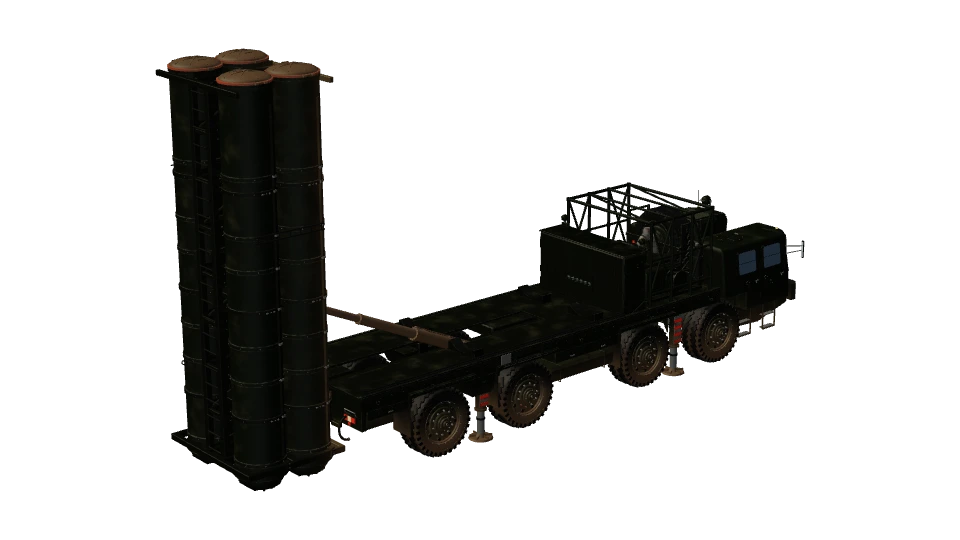
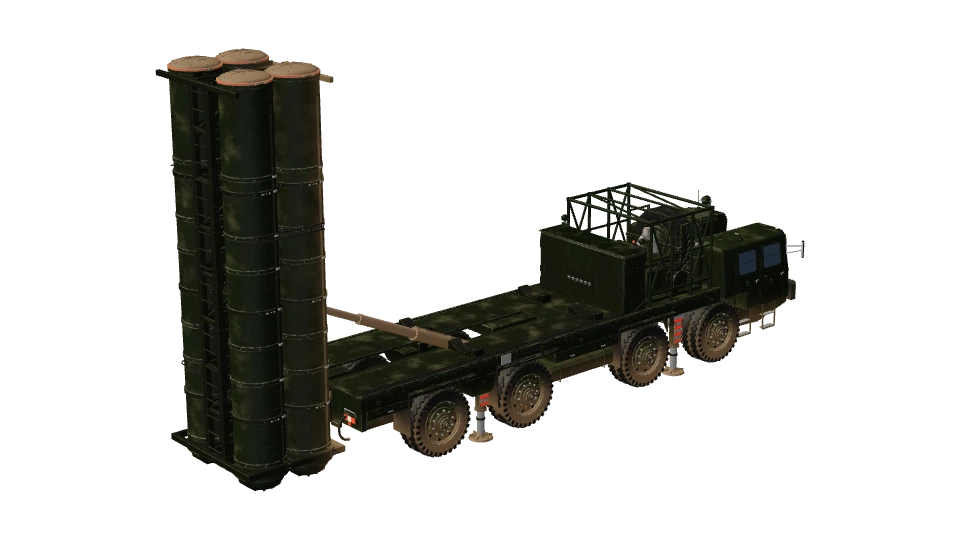
Воздушное превосходство: у С-300 стёкла кабин и фар с бликом, как у С-400; С-400 в игре не такая чёрная (яркость ×2 — как на одобренном превью)

diff --git a/fortuna-bot-web/tools/airdef-models/prepare.js b/fortuna-bot-web/tools/airdef-models/prepare.js
@@ -345,7 +345,8 @@ const CONFIG = {
   // jack_0…3 → jack0…3 — штоки домкратов; cyl_barrel / cyl_rod1 / cyl_rod2 → cyl0…2 — гидроцилиндр подъёма (main.js erectView). Контейнеры полые:
   // ракеты 9М83 — своя модель msl_9m83. Дальняя копия — s300_lo.glb сборщика (без протектора, ступиц, рамы: 61 тыс.), крышки в пакете
   s300: { src: `${DL}/Свои/С-300/s300.glb`, scale: 1, nose: '-z', rulesIn: 'game', unit: true, own: true, tex: () => 2048, nTex: () => 1024, pickMesh: /./,
-    axisX: 0, axisZ: 0, ground: 0, hinge: [0, 1.264, 5.694], tpFix: [0, 1.264, 5.694], pack0: 0, tube: [0.8, 1.1], groups: (c) => s300Part(c, true) },
+    axisX: 0, axisZ: 0, ground: 0, hinge: [0, 1.264, 5.694], tpFix: [0, 1.264, 5.694], pack0: 0, tube: [0.8, 1.1], groups: (c) => s300Part(c, true),
+    alpha: { '^S3_glassF$': 0.85, '^S3_lensF$': 0.9 } }, // стёкла кабин и фар — стекло с бликом, как у С-400 (Mark 2026-11-02; в файле сборщика непрозрачные — в игре были чёрные)
   // объект «РЛС на вершине» (w_radar зимой, a_radar осенью) — своя сцена сборщика (Свои/РЛС на вершине, 2026-10-28): оси игры (x — восток,
   // −z — север, y = 0 — площадка), начало — центр объекта; части — узлы b_<постройка> (целая) и b_<постройка>_ruin (разрушенная, на том же
   // месте), deco_site / deco_props — неразрушаемое (props — только вблизи); пустышки place:* — без мешей (места — city.js SITES)
@@ -769,8 +770,8 @@ CONFIG.tor_lo = { ...CONFIG.tor, target: 12000, simpErr: 0.05, tex: () => 512, n
 CONFIG.s300_lo = { ...CONFIG.s300, src: `${DL}/Свои/С-300/s300_lo.glb`, tex: () => 512, nTex: null, groups: (c) => s300Part(c, false) };
 // С-400 — копия нашей С-300 (сборщик объектов, Свои/С-400, 2026-11-02; Mark: «с-400 готов»): те же узлы и шарниры (ПАСПОРТ.json), + запаска в корзине
 // за кабинами (body_spare*), фары; окраска почти чёрная зелень; стёкла кабин и фар — BLEND. Ракета — 9М83 (models.js samMissile). Дальняя — s400_lo (76 тыс.)
-CONFIG.s400 = { ...CONFIG.s300, src: `${DL}/Свои/С-400/s400.glb` };
-CONFIG.s400_lo = { ...CONFIG.s300_lo, src: `${DL}/Свои/С-400/s400_lo.glb` };
+CONFIG.s400 = { ...CONFIG.s300, src: `${DL}/Свои/С-400/s400.glb`, alpha: null }; // стёкла у сборщика уже BLEND
+CONFIG.s400_lo = { ...CONFIG.s300_lo, src: `${DL}/Свои/С-400/s400_lo.glb`, alpha: null };
 // «РЛС на вершине»: дальняя копия сборщика (25 тыс., без мелочи deco_props), цвет 512, без нормалей; узлы — те же
 CONFIG.site_radar_lo = { ...CONFIG.site_radar, src: `${DL}/Свои/РЛС на вершине/radar_site_lo.glb`, tex: () => 512, nTex: null };
 CONFIG.site_heli_lo = { ...CONFIG.site_heli, src: `${DL}/Свои/Вертолётная площадка/heli_site_lo.glb`, tex: () => 512, nTex: null }; // «Ведьмина поляна»: дальняя сборщика (21 тыс., без ограды и палаток)
@@ -1157,7 +1158,10 @@ async function prepare(name, views) {
     // стекло — только полупрозрачное с «стеклянным» именем (фонарь, окна, линзы): многие авторы ставят BLEND на всё подряд (гусеницы «Тора»,
     // корпус «Вербы», крыша хаты) — без этого правила такие части выходили белыми «стёклами» без текстуры. cfg.glass — свои имена стёкол
     const GLASS = /glass|стекл|canopy|window|visor|lens|fonar|фонар/i, nm = src.name || '';
-    const blend = src.alphaMode === 'BLEND', solid = !!(cfg.opaque && cfg.opaque.test(nm));
+    // alpha — { имя: α }: непрозрачный материал сборщика — стеклом с этой прозрачностью (С-300: стёкла кабин и фар — как у С-400)
+    const AL = cfg.alpha && Object.entries(cfg.alpha).find(([re]) => new RegExp(re).test(nm));
+    if (AL) pbr.baseColorFactor = [...(pbr.baseColorFactor || [1, 1, 1]).slice(0, 3), AL[1]];
+    const blend = src.alphaMode === 'BLEND' || !!AL, solid = !!(cfg.opaque && cfg.opaque.test(nm));
     const glass = m.forceGlass || !!(cfg.glassAny && cfg.glassAny.test(nm)) || (blend && !solid && !cfg.cutout && (GLASS.test(nm) || !!(cfg.glass && cfg.glass.test(nm))));
     const cut = blend && !solid && !glass; // остальное полупрозрачное — вырезкой по альфе: заборы и наклейки сохраняют дыры, корпуса — текстуру
     // colors — свои цвета материалов по имени (у модели без текстур цвета бывают «служебные»)

diff --git a/fortuna-bot-web/games/airdef/models.js b/fortuna-bot-web/games/airdef/models.js
@@ -279,7 +279,7 @@ const META = {
   msl_tor: { samMissile: ['tor', 'torm2'], matte: true, stations: [] }, // ракета 9М331 — своя (Свои/9М331), 2,9 м, нос −Z
   pantsir: { units: ['pantsir'], matte: true, stations: [] }, // «Панцирь-С1» на КамАЗ-6560 — SanderWolf (CC BY 4.0), переделан в Blender (Свои/Панцирь): камуфляж, затенение и карта нормалей запечены — шейдерного узора нет
   s300: { units: ['s300'], matte: true, stations: [] }, // С-300 — своя пусковая 5П85 на МАЗ-543 (сборщик, Свои/С-300, 2026-10-28) вместо скана Chenzoss: пакет поднимается от РЛС, крышки, домкраты, цилиндр
-  s400: { units: ['s400'], matte: true, stations: [] }, // С-400 — копия нашей С-300 (сборщик объектов, Свои/С-400, 2026-11-02): запаска в корзине за кабинами, окраска почти чёрная зелень, фары; части и шарниры — те же
+  s400: { units: ['s400'], matte: true, bright: 2.0, stations: [] }, // С-400 — копия нашей С-300 (сборщик объектов, Свои/С-400, 2026-11-02): запаска в корзине за кабинами, окраска почти чёрная зелень, фары; части и шарниры — те же; bright 2 — почти чёрная краска в игре (ACES давит тёмные) была втрое темнее превью Blender, у С-300 — на 20 %: ×2 даёт то же соотношение (Mark: «почему миниатюра такая чёрная?»)
   msl_5v55: { samMissile: ['s300'], inTube: true, lazy: true, matte: true, stations: [] }, // ракета 5В55Р — своя (Свои/5В55Р, 2026-11-02), 6,9 м, Ø 0,488, нос −Z; рули fin0…3 — как у 9М83
   msl_9m83: { samMissile: ['s400'], inTube: true, lazy: true, matte: true, stations: [] }, // ракета 9М83 — своя (Свои/9М83), 6,9 м, нос −Z; рули fin0…3 (в контейнере сложены); inTube — носовые части в контейнерах пусковой
   patriot: { units: ['patriot', 'pac3'], stations: [] }, // Patriot M901 — Muhamad Mirza Arrafi
@@ -337,8 +337,8 @@ const GLB_V_OWN = {
   w_prsm: '20261025p',
   w_arrw: '20261025q',
   w_lance: '20261025r',
-  s300: '20261028b', // С-300 — своя пусковая 5П85 (сборщик, Свои/С-300) вместо скана Chenzoss, 2026-10-28
-  s300_lo: '20261028b',
+  s300: '20261102b', // С-300 — своя пусковая 5П85 (сборщик, Свои/С-300) вместо скана Chenzoss, 2026-10-28; стёкла с бликом — 2026-11-02
+  s300_lo: '20261102b',
   s400: '20261102a', // С-400 — своя (Свои/С-400, 2026-11-02)
   s400_lo: '20261102a',
   site_radar: '20261028c', // объект «РЛС на вершине» (своя сцена, 2026-10-28)

diff --git a/fortuna-bot-web/AIRDEF_STATE.md b/fortuna-bot-web/AIRDEF_STATE.md
@@ -1525,3 +1525,4 @@ Mark работает с **Opus на высоком усилии** — он ру
 - 2026-11-02 · Opus 5.5 · **поиск онлайна и подсказки вертолёта** (Mark, 3 пункта со снимками телефона): (1) на поиске пропадал фон — кадры фона (#menuBg) лежат внутри #menu, а mm.js гасил #menu целиком (так с 20261101a); теперь гаснут только дети #menu, кроме #menuBg (и кнопка звука) — под затемнением идут кадры меню; (2) пинг поиска — один раз через 1 с после начала, без повтора раз в 4 с; (3) вертолёт в бою — убраны длинные подсказки: к оружию при смене (НАР / ПТУР, 8 с) и управления при взлёте (7 с); строка целей в начале боя осталась, управление — в «?» на паузе, оружие — в уроках; ключи перевода удалены из en-battle.js. Стенд scratchpad mmheli/stand.js (1280×720 и 932×430): фон виден, пингов за 9 с — 1, смена на «Штурм» без подсказки. Не выложено.
 - 2026-11-02 · Opus 5.5 · **своя ракета 5В55Р для С-300** (Mark: «она теперь собрана и можешь встроить её для с-300»): собрал сборщик объектов (Свои/5В55Р, 12 478 тр., 6,9 м, Ø 0,488, рули V55_fin0…3 → fin0…3, складываются в контейнере тем же кодом, что у 9М83). prepare.js msl_5v55 (src из Свои, как 9М83), models.js META msl_5v55 samMissile [s300] + GLB_V 20261102a, ktx; 9М83 теперь только у С-400 (Mark: оставить, хотя это ракета С-300В). С-300 переименован С-300ПМУ-1 → С-300ПМУ (по таблице Mark ПМУ-1 стреляет 48Н6Е, ПС/ПМУ — 5В55Р), en-data. Стенд flame/fly.js s300 эпоха 3: выброс, рули, огонь из сопла по оси. Задания сборщикам: Patriot + PAC-2 (сборщик С-300, Свои/Patriot, Свои/PAC-2; MAN 8×8), С-400 на основе нашей С-300 — колесо в корзине за кабиной, почти чёрная окраска (сборщик объектов, Свои/С-400, ключ s400). Не выложено.
 - 2026-11-02 · Opus 5.5 · **своя модель С-400** (Mark: «с-400 готов — можешь внедрять в игру, ракета у него будет та, что делали раньше» — 9М83, хотя это ракета С-300В): собрал сборщик объектов из нашей С-300 (Свои/С-400, ревизия 1: запаска в корзине за кабинами, окраска «тёмный Б» — почти чёрная зелень с сильным износом, новые фары; 202,6 тыс. тр., дальняя s400_lo — 75,7 тыс.; узлы и шарниры — как у С-300, стёкла кабин и фар — BLEND). prepare.js s400 / s400_lo = копии CONFIG.s300 / s300_lo с другим src; models.js: META s300 units [s300], новая s400 units [s400], GLB_V 20261102a, UNIT_LO + s400; launchers.js без изменений (S300 общий, слоты те же); ktx; миниатюра pvo_s400 переснята (pvo_s300 — байт в байт прежняя). Стенд пуска (fly.js s400, эпоха 4): пакет поднимается, 9М83 выходит, ошибок нет. Тесты site, ui, sim, combined, tbm прошли. Не задеплоено.
+- 2026-11-02 · Opus 5.5 · **С-300: стёкла с бликом; С-400 не такая чёрная** (Mark: «да, сделай такие же стёкла. и почему миниатюра с-400 такая чёрная?»). (1) prepare.js: новое поле cfg.alpha { имя: α } — непрозрачный материал сборщика становится стеклом (BLEND); у s300 / s300_lo S3_glassF 0,85, S3_lensF 0,9, как у С-400 (у s400 alpha: null — стёкла сборщика уже BLEND, файл байт в байт прежний); s300.glb изменился только в двух материалах, ktx те же, GLB_V s300 / s300_lo → 20261102b. (2) Почему чёрная: текстура С-400 в среднем 34/255 против 50 у С-300, а игра (Phong + ACES) давит тёмные: краска С-300 в игре на 20 % темнее превью Blender (72 → 58), а почти чёрная С-400 — втрое (33 → 11). META s400 bright 2 (как s125 1,9) даёт те же 80 % (→ 25–28), в бою пусковая 22 → 34. Миниатюры pvo_s400 и pvo_s300 пересняты. Тесты site, ui, sim, combined, tbm. Не задеплоено.
